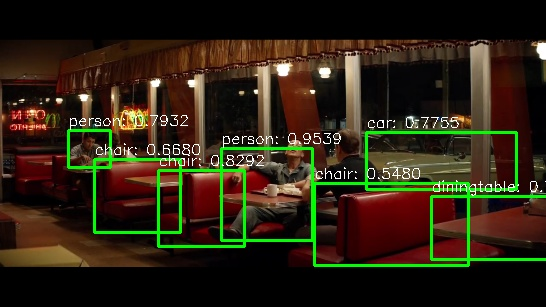
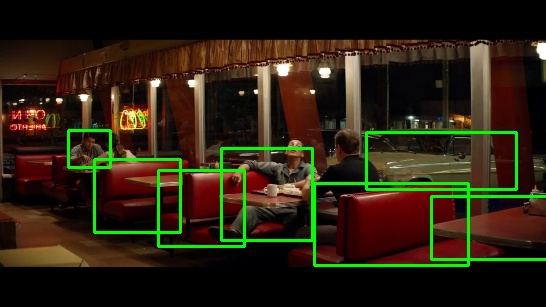
only detection

diff --git a/object_detector/detect.py b/object_detector/detect.py
@@ -11,7 +11,7 @@ output_layers = [layer_names[i[0] - 1] for i in net.getUnconnectedOutLayers()]
 colors = np.random.uniform(0, 255, size=(len(classes), 3))
 
 
-img = cv2.imread("./image/Screenshot (869).png")
+img = cv2.imread("./image/Screenshot3.png")
 img = cv2.resize(img, None, fx=0.4, fy=0.4)
 height, width, channels = img.shape
 
@@ -51,10 +51,10 @@ for i in range(len(boxes)):
         label = "{}: {:.4f}".format(classes[class_ids[i]], confidences[i])
         color = colors[i]
         cv2.rectangle(img, (x, y), (x + w, y + h), (0,255,0), 2)
-        cv2.putText(img, label, (x, y -5), font, 0.5, (255,255,255), 1)
+        # cv2.putText(img, label, (x, y -5), font, 0.5, (255,255,255), 1)
 
 img = cv2.resize(img, None, fx=1, fy=1)
 cv2.imshow("Image", img)
-cv2.imwrite('./image/new_image1.jpg',img)
+cv2.imwrite('./image/new_image.jpg',img)
 cv2.waitKey(0)
 cv2.destroyAllWindows()
